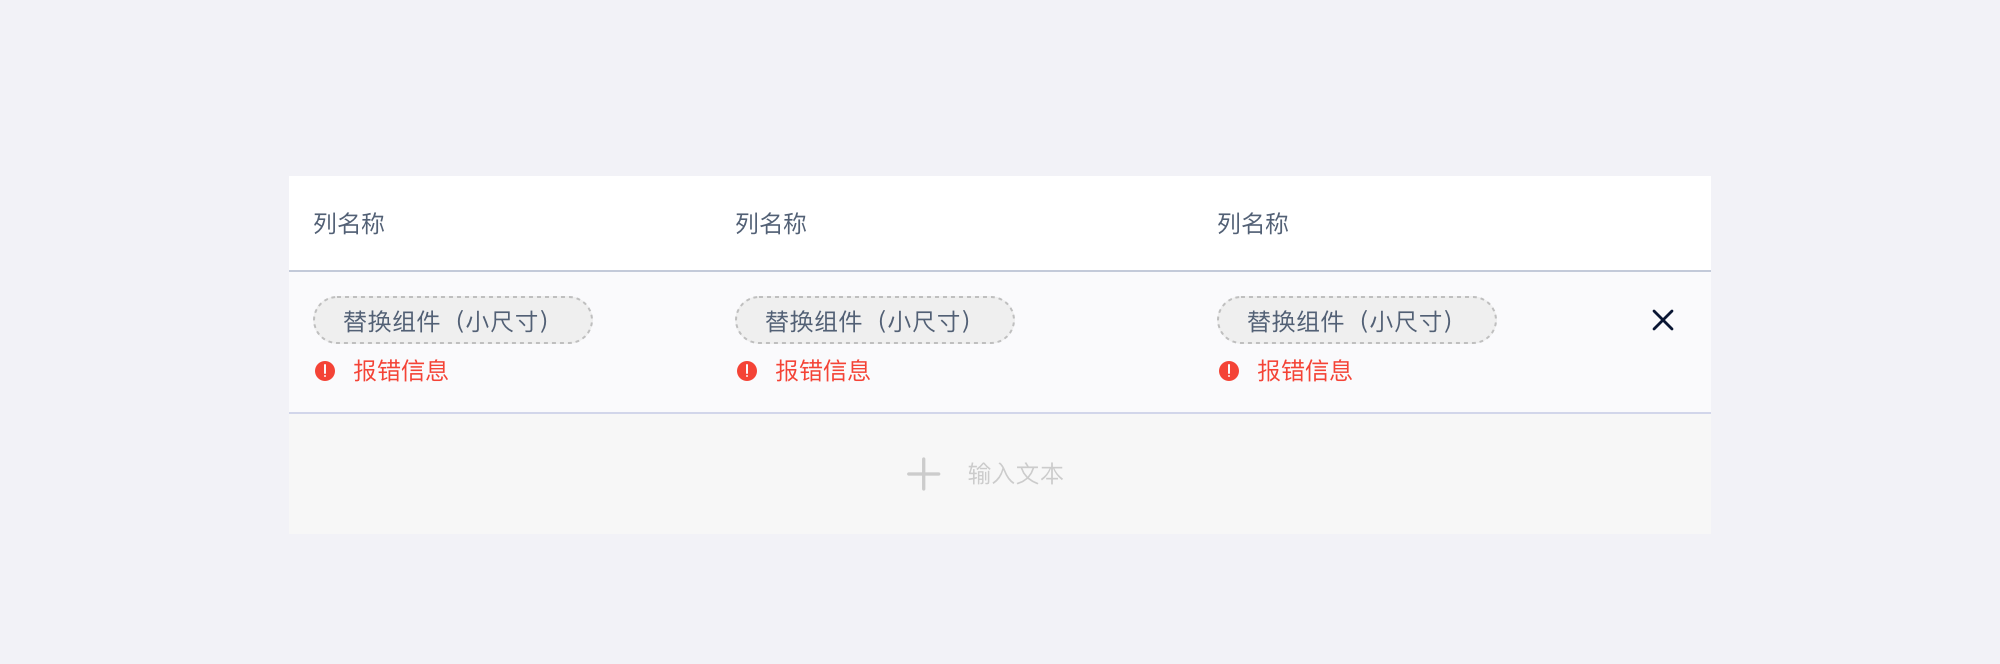
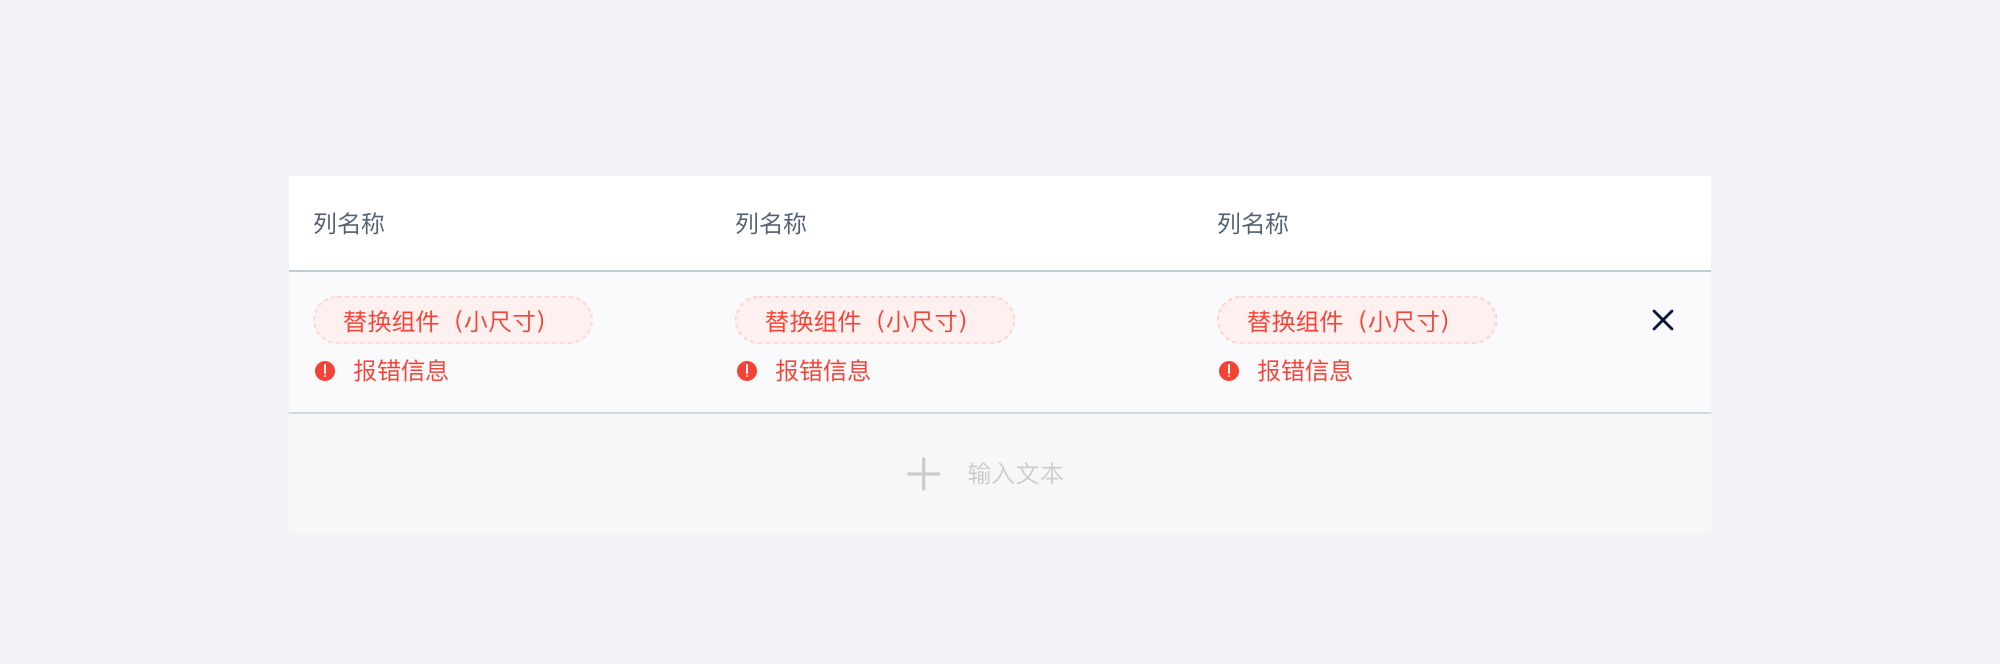
修改

Changed region(s): [[0.62, 0.4518, 0.744, 0.512], [0.372, 0.4518, 0.496, 0.512], [0.155, 0.4518, 0.279, 0.512]]

diff --git a/content/component/list/EditableList/index.md b/content/component/list/EditableList/index.md
@@ -14,11 +14,21 @@ description: "一种用户可自行增减表单数量的组件。"
 
 ## 基本构成
 
-![001](../../../images/EditableTable/001.png)
+![](../../../images/EditableList/forms_01.png)
 
-| 输入框(A) | 删除按钮(B) | 添加按钮(C) |
-| :-------: | :---------: | :---------: |
-|     √     |      ✓      |      ✓      |
+| 组件(A) | 增减按钮(B) |
+| :-----: | :---------: |
+|    √    |    可选     |
+
+**A.组件**
+
+**B.增减按钮**（可选）
+
+
+
+## 基本样式
+
+### 尺寸
 
 
 
@@ -58,18 +68,18 @@ description: "一种用户可自行增减表单数量的组件。"
 
 ## 常见问题
 
-### 自增表单与自增表格的区别
+### 自增表单与自增表格混淆
 
 -  自增表单通常是针对单个文本框的表单，通过增减按钮调整文本框的数量；
 -  自增表格通常是针对一组表单进行增减，例如select与文本框的组合等。
 
 <div class="u-md-flex-without-bg">
    <div class="u-md-mr24">
-      <p><i class="u-md-suggested"></i>正确示范：</p>
+      <p><i class="u-md-suggested"></i>正确场景</p>
       <img src="../../../images/EditableList/002.png"/>
    </div>
    <div>
-      <p><i class="u-md-not-suggested"></i>错误用法：</p>
+      <p><i class="u-md-not-suggested"></i>混淆场景</p>
       <img src="../../../images/EditableList/006.png"  />
    </div>
 </div>
